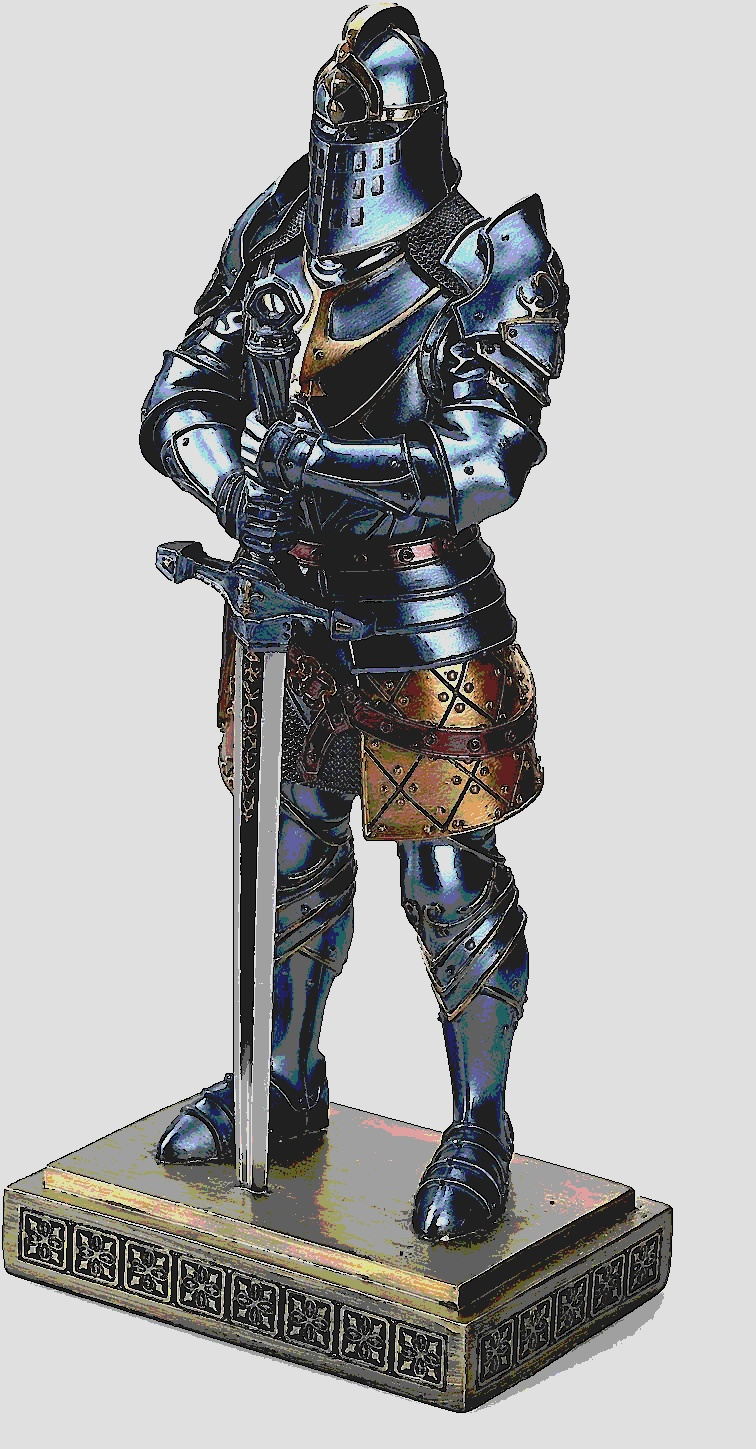
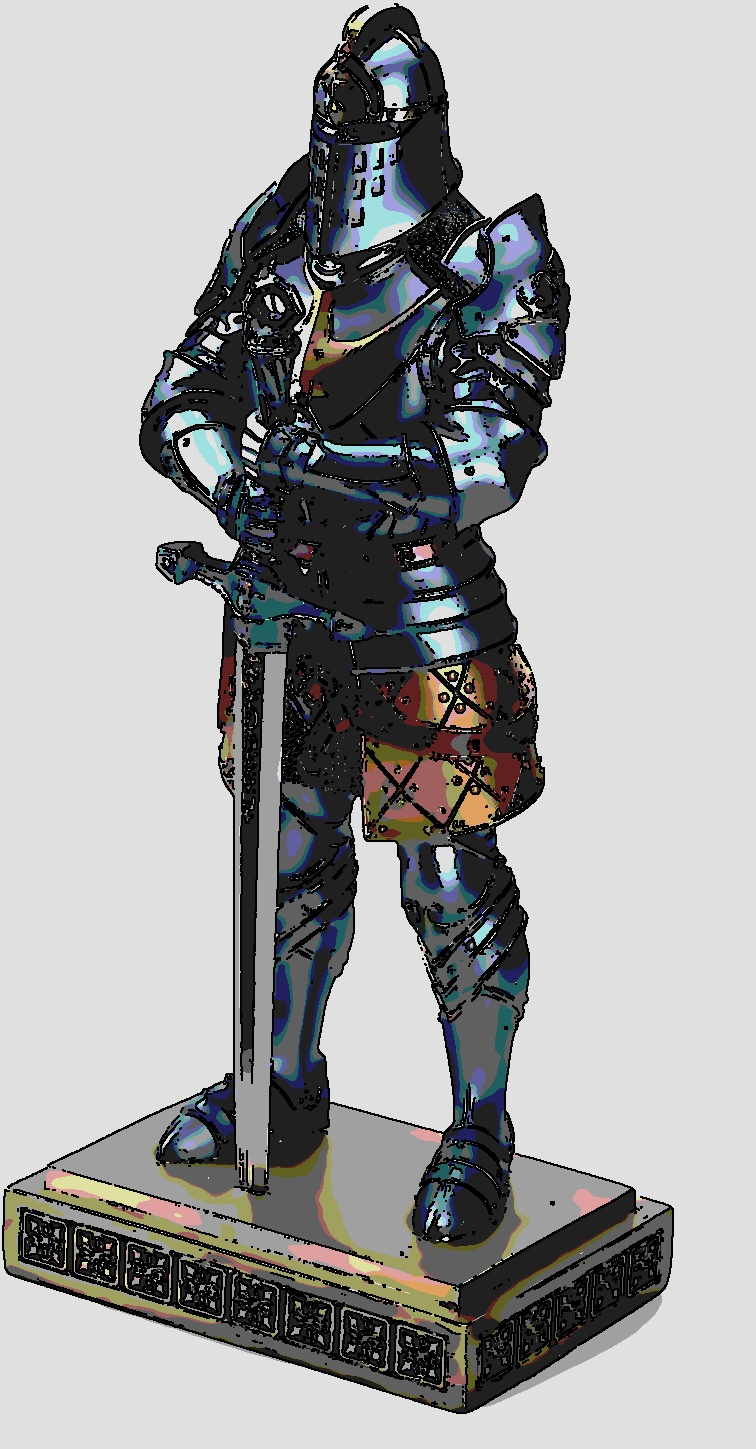
fixing hatch patterns path

Changed region(s): [[0.0, 0.0, 0.9127, 0.9938], [0.4868, 0.7453, 0.5172, 0.7764]]

diff --git a/npr_effects/hatching_effect.py b/npr_effects/hatching_effect.py
@@ -5,7 +5,7 @@ from edge_stylization.hatching import apply_hatching
 from edge_stylization.edge_coloring import color_edges
 from edge_stylization.line_width import adjust_line_width
 
-def apply_hatching_effect(image, patterns_dir='textures/hatching_patterns', num_levels=5):
+def apply_hatching_effect(image, patterns_dir='texture/hatching_patterns', num_levels=5):
     """
     Applies a hatching effect to the image.
 
@@ -17,13 +17,13 @@ def apply_hatching_effect(image, patterns_dir='textures/hatching_patterns', num_
     Returns:
     - hatched_image: Image with hatching effect applied.
     """
-    gray_image = cv.cvtColor(image, cv.COLOR_BGR2GRAY)
+    #gray_image = cv.cvtColor(image, cv.COLOR_BGR2GRAY)
 
     edges = modified_canny_detector(image)
     thick_edges = adjust_line_width(edges, min_thickness=1, max_thickness=2)
     colored_edges = color_edges(thick_edges, color=(0, 0, 0))
 
-    hatched = apply_hatching(image, gray_image, patterns_dir, num_levels=num_levels)
+    hatched = apply_hatching(image, edges, patterns_dir, num_levels=num_levels)
 
     hatched_with_edges = cv.addWeighted(hatched, 1, colored_edges, 1, 0)
 

diff --git a/example/run_npr_effects.py b/example/run_npr_effects.py
@@ -21,8 +21,8 @@ display_image('Pencil Sketch', sketch_image, 10000)
 
 sketch_texture_image = apply_pencil_sketch_with_texture(image, 'texture/paper_texture.jpg', blend_factor=0.5)
 save_image('output/pencil_sketch_with_texture.jpg', sketch_texture_image)
-display_image('Pencil Sketch with Texture', sketch_texture_image)
+display_image('Pencil Sketch with Texture', sketch_texture_image, 10000)
 
-hatched_image = apply_hatching_effect(image, patterns_dir='textures/hatching_patterns', num_levels=5)
+hatched_image = apply_hatching_effect(image, patterns_dir='texture/hatching_patterns', num_levels=5)
 save_image('output/hatched_image.jpg', hatched_image)
-display_image('Hatching Effect', hatched_image)
+display_image('Hatching Effect', hatched_image, 10000)
